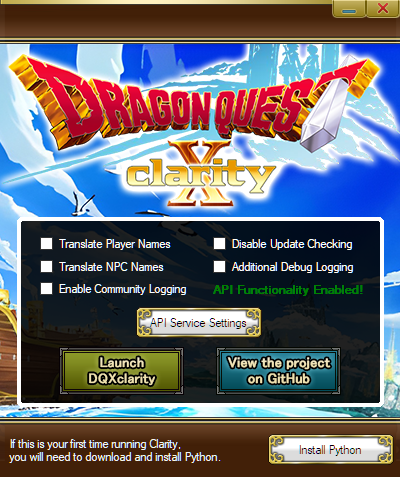
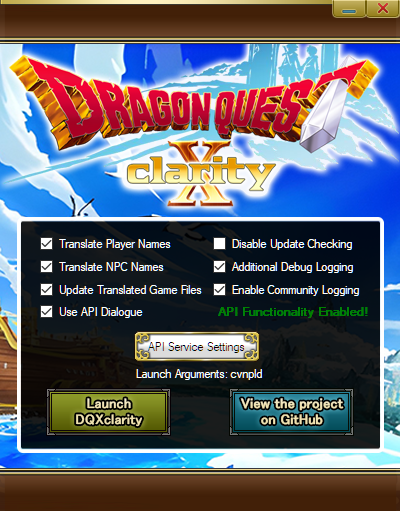
Updated stuff for new clarity version

diff --git a/pages/utilities/translation_tools.html b/pages/utilities/translation_tools.html
@@ -386,42 +386,7 @@
                       <h2 class="title_note title_icon fullWidth">
                         Installing DQXclarity
                       </h2>
-                      <br />
-
-                      
-                      <p>
-                        <strong>BEFORE GOING ANY FURTHER, YOU MUST DOWNLOAD THE ENGLISH
-                        PATCHED FILES. IT'S ALSO RECOMMENDED TO DOWNLOAD
-                        AND REPLACE THE LAUNCHER AND CONFIG EXECUTABLES WITH 
-                        THEIR ENGLISH TRANSLATED VERSIONS.</strong>
-                      </p>
-                      <br/>
-                      <p>
-                        To download the <strong>English patched files</strong>, go <strong><a href="https://github.com/dqx-translation-project/dqxclarity/releases/latest">here</a></strong>.
-                        You will see two files listed under <strong>Assets</strong>: <strong>data000000000.win32.dat1</strong>
-                        and <strong>data000000000.win32.idx</strong>. <strong>Download both of them.</strong>
-                      </p>
-                    <br/>
-                      <p>
-                        Download the <strong>Translated Launcher from 
-                          <a href="https://www.mediafire.com/file/lhz9v6xui5mbsro/DQXLauncher.exe/file">here</a></strong>
-                          and the <strong>Translated Config from <a href="https://github.com/dqx-translation-project/dqx_en_config/releases/latest">here</a></strong>.
-                      </p>
-                      <p>
-                      <br/>
-                      <p>
-                        Once you've downloaded the English patched files, navigate to the install
-                        location you chose for Dragon Quest X (by default, this will
-                        be <strong>C:\Program Files (x86)\SquareEnix\DRAGON QUEST X</strong>).
-                        Once there, enter the folder <strong>Game</strong>, then <strong>Content</strong>,
-                        and finally <strong>Data</strong>. You'll want to place both <strong>data000000000</strong> files
-                        you downloaded into this folder. <strong>BEFORE DOING THIS, IT'S RECOMMENDED
-                          TO BACK UP THE ORIGINAL data000000000.win32.idx FILE.
-                        </strong>
-
-                      </p>
-
-                      <br>
+                    <br />
 
                       <hr style="width: 85%" />
 
@@ -436,7 +401,8 @@
                         <strong>
                           download the latest release from the releases
                           tab.</strong
-                        > Download the <strong>dqxclarity.zip</strong> file. Do not download the
+                        > Make sure the release is tagged "Latest" and not
+                        "Pre-release". Download the <strong>dqxclarity.zip</strong> file. Do not download the
                         source code files as they will not work.
                       </p>
 
@@ -473,7 +439,11 @@
                       <br />
 
                       <p>
-                        <strong>Run DQXclarity.exe</strong>, which will bring up
+                        <strong>Run DQXclarity.exe as an adminstrator.</strong> You can
+                        do this by either right clicking the exe -> Run as administrator,
+                        OR right click the exe -> select "Properties" -> click the "Compatiblity"
+                        tab -> check the "Run this program as an administrator" box. (This is
+                        necessary to download necessary game files.) Once it opens, you will see
                         this GUI.
                       </p>
 
@@ -488,6 +458,7 @@
                         There are multiple options here that function as
                         follows:
                       </p>
+                      <br/>
                       <ul style="list-style: none">
                         <li>
                           <p>
@@ -507,6 +478,27 @@
                         <br/>
                         <li>
                           <p>
+                            <strong>Update Translated Game Files:</strong> Downloads
+                            the latest game data files which translate various
+                            elements into the game into English, such as menus, item/ability
+                            names, and cutscene dialogue. <strong>As a first
+                            time Clarity user, make sure this is checked or your
+                            game won't be in English!
+                            </strong>
+                          </p>
+                        </li>
+                        <br/>
+                        <li>
+                          <p>
+                            <strong>Use API Dialogue:</strong> Checking this, in
+                            combination with the API Service Settings button
+                            described below, enables live translation of in game
+                            text that the English game files cannot translate.
+                          </p>
+                        </li>
+                        <br/>
+                        <li>
+                          <p>
                             <strong>Enable Community Logging:</strong> Logs useful
                             information about data that is loaded while playing
                             Dragon Quest X. This is useful for discovering new 
@@ -520,7 +512,7 @@
                           <p>
                             <strong>Disable Update Checking:</strong>
                             Disables Clarity checking for updates and 
-                            stops custom translation files from being 
+                            stops translation files from being
                             updated.
                           </p>
                         </li>
@@ -543,43 +535,61 @@
                             box and check the box of the service you're using
                             (do not check both.) If your API key is valid, you will
                             see <strong>API Functionality Enabled!</strong> displayed.
+                            Make sure you also have the Use API Dialogue option checked
+                            as well.
                           </p>
                         </li>
                         <br/>
-                        <li>
-                          <p>
-                            <strong>Install Python:</strong>
-                            If you have never used Clarity before, you must
-                            first install Python. You can do this manually
-                            with this button, or the Python installer will
-                            automatically start upon launching Clarity.
-                          </p>
-                        </li>
                       </ul>
                       <br />
                       <p>
                         For the best English experience, it's recommended to
                         check <strong>Translate Player Names</strong>,
-                        <strong>Translate NPC Names</strong>, and have <strong>
-                            API Functionality Enabled</strong>. Please consider also
-                            having the <strong>Community Logger</strong> option checked,
-                            too.
+                        <strong>Translate NPC Names</strong>, 
+                        <strong>Update Translated Game Files</strong>,
+                        <strong>Use API Dialogue</strong>
+                        and have <strong> API Functionality Enabled</strong>. Please consider
+                        having the <strong>Community Logger</strong> option checked,
+                        too.
                       </p>
                       <br />
 
                       <p>
                         <strong>
-                          Once you are satisfied with your Clarity settings, run 
-                          Dragon Quest X. Don't launch Clarity just yet.
-                          The game will take a few seconds to launch. If the 
-                        game is already open, read on.</strong>
+                        Once you are satisfied with your Clarity settings, click the
+                        "Launch Clarity" button. A blue Powershell window will appear,
+                        and it will go through some initial setup. This may take a few
+                        seconds, so don't click anywhere inside the window.
+                        If you do not have Python installed, it will automatically
+                        install for you. After Python finishes installing, you will
+                        be prompted to select where your DQX installation is.
+                      </strong>
                       </p>
-                      <br/>
+                      <img
+                      src="../../images/utilities/dqx_directory.png"
+                      style="width: 70%; border: 2px rgb(0, 0, 0) solid"
+                      />
                       <br/>
                       <p>
-                        If you are a trial player, you will see a screen similar to
-                        this upon launching the game. <strong>Don't press anything
-                        yet! Read below to see the next step.</strong>
+                        A window will appear to select the "DRAGON QUEST X"
+                        folder wherever you installed the game. By default,
+                        this will be <strong>C:/Program Files (x86)/SquareEnix/DRAGON QUEST X</strong>.
+                        Navigate to this location (or wherever else you chose to install it), 
+                        select the folder, and then click the "Select Folder"
+                        button. If you did
+                        this correctly, Clarity will continue and you will see this message
+                        appear in the Powershell window after a second or two:
+                      </p>
+                      <img
+                        src="../../images/utilities/search_for_dqx.png"
+                        style="width: 70%; border: 2px rgb(0, 0, 0) solid"
+                      />
+                      <br/>
+                      <p>
+                        Once you see this message, use the open launcher to log into
+                        your account. Make sure your account is selected on the
+                        top list on the left side of the launcher. Once logged
+                        in, you should see the message below appear in English:
                       </p>
                       <img
                         src="../../images/utilities/trialmessage.png"
@@ -587,9 +597,9 @@
                       />
                       <br/>
                       <p>
-                        If you are NOT a trial player, this is what you will see
-                        upon launching the game. <strong>Don't press anything
-                          yet! Read below to see the next step.</strong>
+                        If this is in English, success! You now have the English
+                        files. After moving on from this screen, you'll see this
+                        screen below:
                         </p>
                       </p>
                       <img
@@ -597,30 +607,24 @@
                         style="width: 70%; border: 2px rgb(0, 0, 0) solid"
                       />
                       <p>
-                        <strong>Now you'll want to launch Clarity.</strong> This will bring up a
-                        Powershell window. The first time you launch it, it will go
-                        through a process of creating necessary folders. Do not
-                        touch the game nor the Powershell window until Clarity
-                        finishes. If you do not have Python installed, the Python
-                        installer will automatically start. Go through the installation
-                        prompts. Afterwards,
-                        Clarity will transition into translating the
-                        game automatically and will notify you when it's
-                        finished. You'll see following message in the Powershell
-                        window once it's complete.
+                        <strong>This is when Clarity will activate itself.</strong>
+                        It should take no more than a few seconds. If you see this
+                        message below in the Powershell window, Clarity has
+                        successfully activated:
                         <img src="../../images/utilities/clarity_done.png"/>
                         Keep the Powershell window minimized and enjoy Dragon Quest X!
                         You can now press Enter to head to the main login screen. 
                         <strong>Please note that you will need to run Clarity again in 
-                          this fashion each time you boot up the game.
+                          this fashion during each play session.
                         </strong>
                         <br/>
                         <br/>
                         <strong>NOTE: If Clarity's Powershell window is 
-                        automatically closing itself before finishing, PLEASE CAREFULLY 
+                        automatically closing itself before finishing or spitting
+                        out some kind of error, PLEASE CAREFULLY 
                         READ THE TROUBLESHOOTING SECTION DETAILED
                         <a
-                          href="https://github.com/dqx-translation-project/dqxclarity/wiki/Installation#troubleshooting"
+                          href="https://github.com/dqx-translation-project/dqxclarity/wiki/Installation#pencil2-installation-troubleshooting"
                           >HERE</a
                         >.</strong>
                       </p>

diff --git a/pages/getting_started.html b/pages/getting_started.html
@@ -702,36 +702,15 @@
                       </p>
                       <br/>
                       <p>
-                        <strong>BEFORE GOING ANY FURTHER, YOU MUST DOWNLOAD THE ENGLISH
-                        PATCHED FILES. IT'S ALSO RECOMMENDED TO DOWNLOAD
+                        <strong>BEFORE GOING ANY FURTHER, IT'S RECOMMENDED TO DOWNLOAD
                         AND REPLACE THE LAUNCHER AND CONFIG EXECUTABLES WITH 
                         THEIR ENGLISH TRANSLATED VERSIONS.</strong>
                       </p>
                       <br/>
                       <p>
-                        To download the <strong>English patched files</strong>, go <strong><a href="https://github.com/dqx-translation-project/dqxclarity/releases/latest">here</a></strong>.
-                        You will see two files listed under <strong>Assets</strong>: <strong>data000000000.win32.dat1</strong>
-                        and <strong>data000000000.win32.idx</strong>. <strong>Download both of them.</strong>
-                      </p>
-                    <br/>
-                      <p>
                         Download the <strong>Translated Launcher from 
                           <a href="https://www.mediafire.com/file/lhz9v6xui5mbsro/DQXLauncher.exe/file">here</a></strong>
                           and the <strong>Translated Config from <a href="https://github.com/dqx-translation-project/dqx_en_config/releases/latest">here</a></strong>.
-                      </p>
-                      <p>
-                      <br/>
-                      <p>
-                        Once you've downloaded the English patched files, navigate to the install
-                        location you chose for Dragon Quest X (by default, this will
-                        be <strong>C:\Program Files (x86)\SquareEnix\DRAGON QUEST X</strong>).
-                        Once there, enter the folder <strong>Game</strong>, then <strong>Content</strong>,
-                        and finally <strong>Data</strong>. You'll want to place both <strong>data000000000</strong> files
-                        you downloaded into this folder. <strong>BEFORE DOING THIS, IT'S RECOMMENDED
-                          TO BACK UP THE ORIGINAL data000000000.win32.idx FILE.
-                        </strong>
-
-                      </p>
                       </p>
                       <br/>
                       <p>
@@ -740,6 +719,7 @@
                         be <strong>C:\Program Files (x86)\SquareEnix\DRAGON QUEST X</strong>).
                         You will see two folders: <strong>Game</strong> and <strong>Boot</strong>.
                       </p>
+                      <br/>
                       <p>
                         Place the <strong>DQXLauncher.exe</strong> file inside of the
                         <strong>Boot</strong> folder, and place the <strong>DQXConfig.exe</strong>
@@ -806,9 +786,20 @@
                         config portion of this guide), go ahead and enter
                         your Japanese Square Enix Account credentials and then
                         click the green button at the bottom. This will
-                        register your account to the client.
+                        register your account to the client. You will see
+                        the message below appear. Simply press "Enter" and
+                        the game will launch.
                       </p>
 
+                      <img
+                        src="../images/setup/client6.png"
+                        style="width: 75%; border: 2px rgb(0, 0, 0) solid"
+                      />
+                    </br>
+                    <p>
+                      From now on, when opening the launcher, make sure to select
+                      your account as shown circled to the left when logging in.
+                    </p>
                       <img
                         src="../images/setup/client5.png"
                         style="width: 75%; border: 2px rgb(0, 0, 0) solid"
@@ -818,17 +809,25 @@
                       <p>
                         If you've done everything correctly up to this point,
                         the game should automatically start and you will see a
-                        black box with yellow text. <strong>Don't press anything
-                          yet!</strong> (When using the launcher from now on,
-                          you should see a player profile like the one listed
-                        above. When you create a character in-game, their name
-                        should fill the brackets, signifying it's your account.)
-                        <br>
-                        Now that the game has launched, please go to the
-                        <a href="https://dqxabbey.com/pages/utilities/translation_tools.html">
-                          translation tools</a> page for instructions on how to translate the game
-                        into English.
+                        black box with yellow text (this will be in Japanese,
+                        don't worry). Keep pressing Enter a few
+                        times to scroll through the screens and you'll see
+                        a screen with this window to the left (still in Japanese). 
                       </p>
+                      <img
+                      src="../images/setup/logout.png"
+                      style="width: 75%; border: 2px rgb(0, 0, 0) solid"
+                    />
+                    <br/>
+                    <p>Select the option that is circled in red (Logout).
+                      You will be prompted two times, just select the top
+                      choice twice, and the game will close with the launcher
+                      opening itself again. The game needs to be closed to
+                      download the files needed for English translation,
+                      so now head over to the <a href="https://dqxabbey.com/pages/utilities/translation_tools.html">
+                        translation tools</a> page for instructions on how to translate the game
+                      into English.
+                    </p>
 
                       <br />
                       <br />
